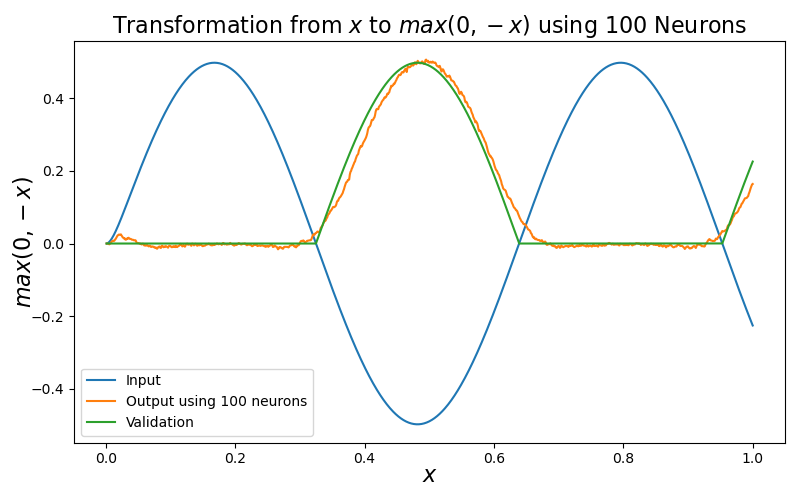
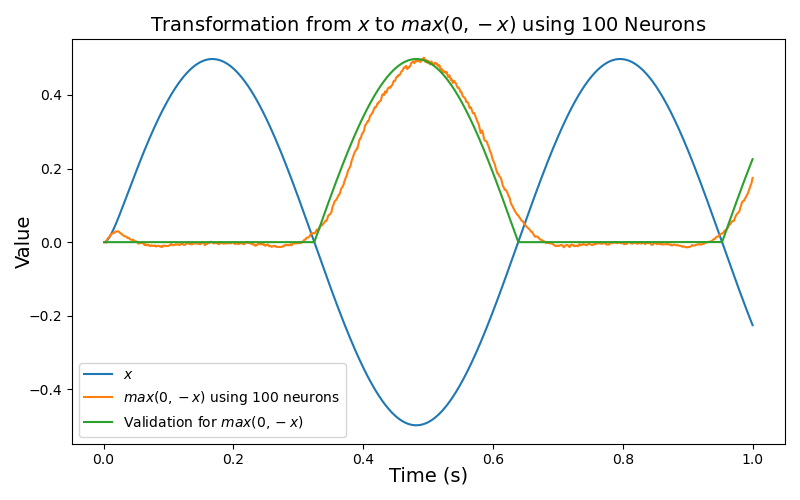
sin_xy

diff --git a/nengo/HW/transformation_high_dim.py b/nengo/HW/transformation_high_dim.py
@@ -1,0 +1,51 @@
+import nengo
+import numpy as np
+import matplotlib.pyplot as plt
+
+
+tau_synapse = 0.01
+
+# Definition of sin(x * y)
+def sin_xy(xy):
+    return np.sin(xy[0] * xy[1])
+
+
+# Model definition
+model = nengo.Network()
+with model:
+
+    # Create nodes and ensembles
+    input_x = nengo.Node(lambda x: 0.5 * np.sin(10 * x))
+    input_y = nengo.Node(lambda y: 0.5 * np.cos(10 * y))
+    output = nengo.Ensemble(n_neurons=100, dimensions=1)
+    ensemble = nengo.Ensemble(n_neurons=1000, dimensions=2)
+
+    # Connect input nodes to the main ensemble, and the main ensemble to the output ensemble
+    nengo.Connection(input_x, ensemble[0])
+    nengo.Connection(input_y, ensemble[1])
+    nengo.Connection(ensemble, output, function=sin_xy)
+
+    # Create relevant probes
+    probe_input_x = nengo.Probe(input_x, synapse=tau_synapse)
+    probe_input_y = nengo.Probe(input_y, synapse=tau_synapse)
+    probe_output = nengo.Probe(output, synapse=tau_synapse)
+
+
+# Model simulation
+with nengo.Simulator(model) as sim:
+    sim.run(1.0)
+
+
+# Plot results
+t = sim.trange()
+plt.figure()
+plt.figure(figsize=(8, 5))
+plt.title('Transformation from $x$ and $y$ to $sin(x \cdot y)$')
+plt.plot(t, sim.data[probe_input_x], label='$x$')
+plt.plot(t, sim.data[probe_input_y], label='$y$')
+plt.plot(t, sim.data[probe_output], label='$sin(x \cdot y)$')
+plt.xlabel('Time (s)')
+plt.ylabel('Value')
+plt.legend()
+plt.show()
+# plt.savefig('sin_xy.png')

diff --git a/nengo/HW/transformation_hw.py b/nengo/HW/transformation_hw.py
@@ -34,14 +34,14 @@ for func_name, func in functions:
             sim.run(T)
 
         # Plot results
-        X = sim.trange()
+        t = sim.trange()
         plt.figure(figsize=(8, 5))
-        plt.title(f'Transformation from $x$ to {func_name} using {n_neurons} Neurons', fontdict={'size': 16})
-        plt.xlabel('$x$', fontdict={'size': 16}, labelpad=-2)
-        plt.ylabel(func_name, fontdict={'size': 16}, labelpad=-4)
-        plt.plot(X, sim.data[input_probe], label='Input')
-        plt.plot(X, sim.data[output_probe], label=f'Output using {n_neurons} neurons')
-        plt.plot(X, [func(x) for x in sim.data[input_probe]], label='Validation')
+        plt.title(f'Transformation from $x$ to {func_name} using {n_neurons} Neurons', fontdict={'size': 14})
+        plt.xlabel('Time (s)', fontdict={'size': 12}, labelpad=-1)
+        plt.ylabel('Value', fontdict={'size': 12}, labelpad=-4)
+        plt.plot(t, sim.data[input_probe], label='$x$')
+        plt.plot(t, sim.data[output_probe], label=f'{func_name} using {n_neurons} neurons')
+        plt.plot(t, [func(x) for x in sim.data[input_probe]], label=f'Validation for {func_name}')
         plt.legend()
         plt.tight_layout()
         # plt.show()
